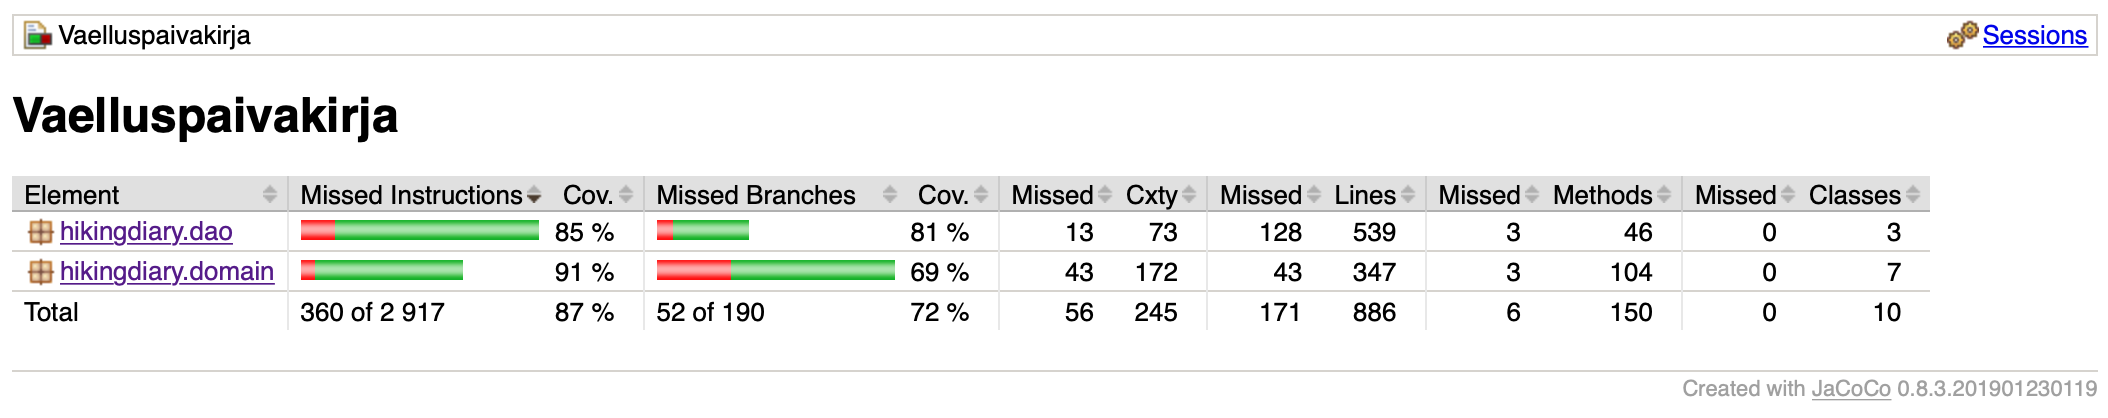
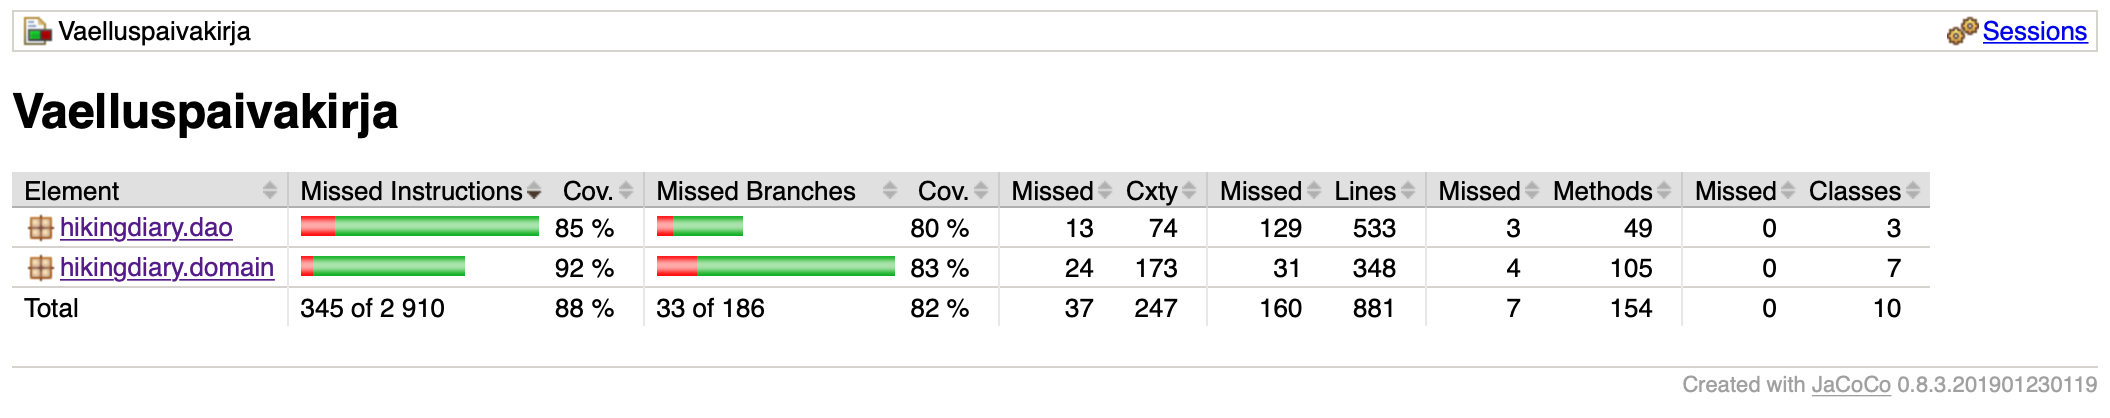
lisää testejä + testikattavuusraportti

diff --git a/Vaelluspaivakirja/src/test/java/hikingdiary/domain/ControllerTest.java b/Vaelluspaivakirja/src/test/java/hikingdiary/domain/ControllerTest.java
@@ -67,17 +67,18 @@ public class ControllerTest {
     }
     
     @Test
-    public void removeHikeRemovesTheHikeFromTheDatabase() {
+    public void removeHikeRemovesTheHikeFromTheDatabaseIfExisting() {
         c.createNewHike("Kaldoaivi", 2019, false);
         assertEquals(1, c.listPastHikes().size());
         Hike hike = c.getHike("Kaldoaivi");
         c.removeHike(hike);
         assertEquals(0, c.listPastHikes().size());
         assertEquals(null, c.getHike("Kaldoaivi"));
+        assertFalse(c.removeHike(hike));
     }
     
     @Test
-    public void updateHikeUpdatesHikeCorrectly() {
+    public void updateHikeUpdatesHikeCorrectlyIfExisting() {
         c.createNewHike("Kaldoaivi", 2019, false);
         Hike hike = c.getHike("Kaldoaivi");
         assertFalse(hike.isUpcoming());
@@ -98,6 +99,8 @@ public class ControllerTest {
         assertTrue(17.5 == hike2.getRucksackWeightEnd());
         assertEquals("Pulmankijärvi", hike2.getLocationStart());
         assertEquals("Adolfin kammi", hike2.getLocationEnd());
+        Hike hike3 = new Hike("Kevo", 2013, false);
+        assertFalse(c.updateHike(hike3));
     }
     
     @Test
@@ -158,17 +161,18 @@ public class ControllerTest {
     }
     
     @Test
-    public void addCompanionAddsTheCompanionToTheGivenHike() {
+    public void addCompanionAddsTheCompanionToTheGivenHikeIfNotExistingAlready() {
         c.createNewHike("Kaldoaivi", 2018, false);
         Companion comp = new Companion("Pekko");
         Hike hike = c.getHike("Kaldoaivi");
         assertFalse(hike.formatCompanions().contains(comp.getName()));
         c.addCompanion(hike, comp);
         assertTrue(hike.formatCompanions().contains(comp.getName()));
+        assertFalse(c.addCompanion(hike, comp));
     }
     
     @Test
-    public void removeCompanionRemovesCompanionOfTheGivenHike() {
+    public void removeCompanionRemovesCompanionOfTheGivenHikeIfExisting() {
         c.createNewHike("Kaldoaivi", 2017, false);
         Companion comp = new Companion("Pekko");
         Hike hike = c.getHike("Kaldoaivi");
@@ -176,6 +180,7 @@ public class ControllerTest {
         assertTrue(hike.formatCompanions().contains("Pekko"));
         c.removeCompanion(hike, comp.getName());
         assertFalse(hike.formatCompanions().contains("Pekko"));
+        assertFalse(c.removeCompanion(hike, "Kaisu"));
     }
 
     @Test
@@ -195,7 +200,7 @@ public class ControllerTest {
     }
     
     @Test
-    public void removeItemRemovesTheItemFromTheGivenHike() {
+    public void removeItemRemovesTheItemFromTheGivenHikeIfExisting() {
         c.createNewHike("Kaldoaivi", 2019, false);
         Item item = new Item("makuupussi", 1);
         Hike hike = c.getHike("Kaldoaivi");
@@ -203,10 +208,11 @@ public class ControllerTest {
         assertTrue(hike.formatEquipment().contains(item.getName()));
         c.removeItem(hike, item.getName());
         assertFalse(hike.formatEquipment().contains(item.getName()));
+        assertFalse(c.removeItem(hike, "juomapullo"));
     }
     
     @Test
-    public void addMealAddsAMealToTheGivenHike() {
+    public void addMealAddsAMealToTheGivenHikeIfNotExistingAlready() {
         c.createNewHike("Kaldoaivi", 2020, true);
         Meal meal = new Meal("letut ja vadelmahillo", 4);
         Hike hike = c.getHike("Kaldoaivi");
@@ -215,10 +221,11 @@ public class ControllerTest {
         c.addMeal(hike, meal);
         assertEquals(1, hike.getMeals().size());
         assertTrue(hike.formatMeals().contains(meal.getName()));
+        assertFalse(c.addMeal(hike, meal));
     }
     
     @Test
-    public void removeMealRemovesTheMealFromTheGivenHike() {
+    public void removeMealRemovesTheMealFromTheGivenHikeIfExisting() {
         c.createNewHike("Karhunkierros", 2020, true);
         Meal meal = new Meal("letut ja vadelmahillo", 4);
         Hike hike = c.getHike("Karhunkierros");
@@ -228,6 +235,7 @@ public class ControllerTest {
         assertTrue(c.removeMeal(hike, meal));
         assertEquals(0, hike.getMeals().size());
         assertFalse(hike.formatMeals().contains(meal.getName()));
+        assertFalse(c.removeMeal(hike, new Meal("pähkinäsekoitus", 5)));
     }
     
     @Test

diff --git a/Vaelluspaivakirja/src/test/java/hikingdiary/domain/DayTripTest.java b/Vaelluspaivakirja/src/test/java/hikingdiary/domain/DayTripTest.java
@@ -5,6 +5,7 @@
 package hikingdiary.domain;
 
 import java.time.LocalDate;
+import java.time.Month;
 import org.junit.After;
 import org.junit.AfterClass;
 import org.junit.Before;
@@ -33,6 +34,16 @@ public class DayTripTest {
         assertEquals("Wednesday", dt.getWeekday());
         dt.setDate(LocalDate.of(2020, 5, 10));
         assertEquals("Sunday", dt.getWeekday());
+        dt.setDate(LocalDate.of(2019, 7, 22));
+        assertEquals("Monday", dt.getWeekday());
+        dt.setDate(LocalDate.of(2019, 7, 23));
+        assertEquals("Tuesday", dt.getWeekday());
+        dt.setDate(LocalDate.of(2019, 7, 25));
+        assertEquals("Thursday", dt.getWeekday());
+        dt.setDate(LocalDate.of(2019, 7, 26));
+        assertEquals("Friday", dt.getWeekday());
+        dt.setDate(LocalDate.of(2019, 7, 27));
+        assertEquals("Saturday", dt.getWeekday());
     }
     
     @Test

diff --git a/Vaelluspaivakirja/src/test/java/hikingdiary/dao/DBHikeDaoTest.java b/Vaelluspaivakirja/src/test/java/hikingdiary/dao/DBHikeDaoTest.java
@@ -45,7 +45,7 @@ public class DBHikeDaoTest {
     }
     
     @Test
-    public void readHikeReturnsAHikeWithAllItsElements() {
+    public void readHikeReturnsTheHikeWithAllItsElementsIfExistingAndNullIfNot() {
         Companion comp = new Companion("Antti");
         Item item = new Item("trangia", 1);
         Meal meal = new Meal("chili con papu", 3);
@@ -53,10 +53,12 @@ public class DBHikeDaoTest {
         hikeDao.createItem(hike, item);
         hikeDao.createMeal(hike, meal);
         Hike h = hikeDao.readHike("Kaldoaivi");
+        assertEquals(hike, h);
         assertTrue(h.formatCompanions().contains("Antti"));
         assertTrue(h.formatEquipment().contains("trangia"));
         assertTrue(h.formatMeals().contains("chili"));
         assertEquals(1, h.getMeals().size());
+        assertEquals(null, hikeDao.readHike("Kevo"));
     }
     
     @Test

diff --git a/Vaelluspaivakirja/src/test/java/hikingdiary/domain/MealTest.java b/Vaelluspaivakirja/src/test/java/hikingdiary/domain/MealTest.java
@@ -39,7 +39,7 @@ public class MealTest {
     
 
     @Test
-    public void getCategoryNameReturnCorrectName() {
+    public void getCategoryNameReturnsCorrectName() {
         assertEquals("Snack", meal0.getCategoryName());
         assertEquals("Breakfast", meal1.getCategoryName());
         assertEquals("Lunch", meal2.getCategoryName());
